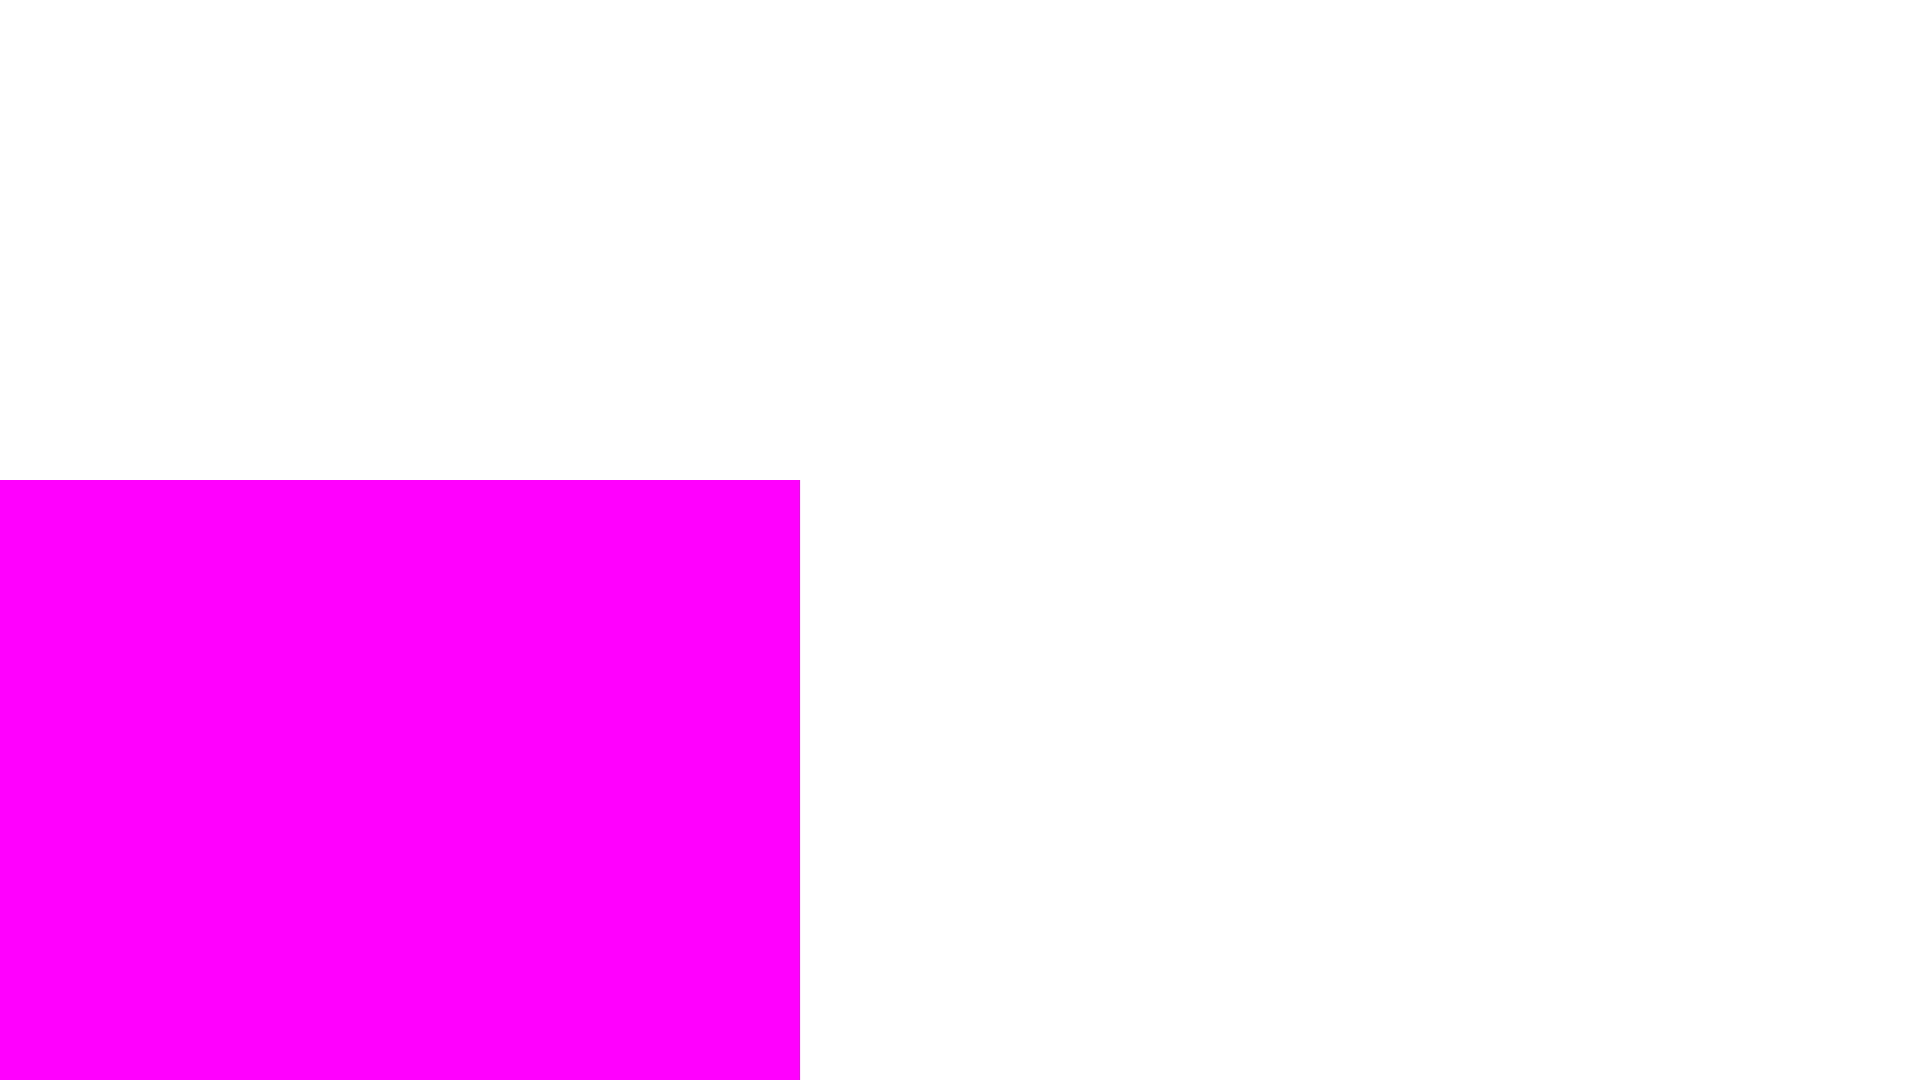
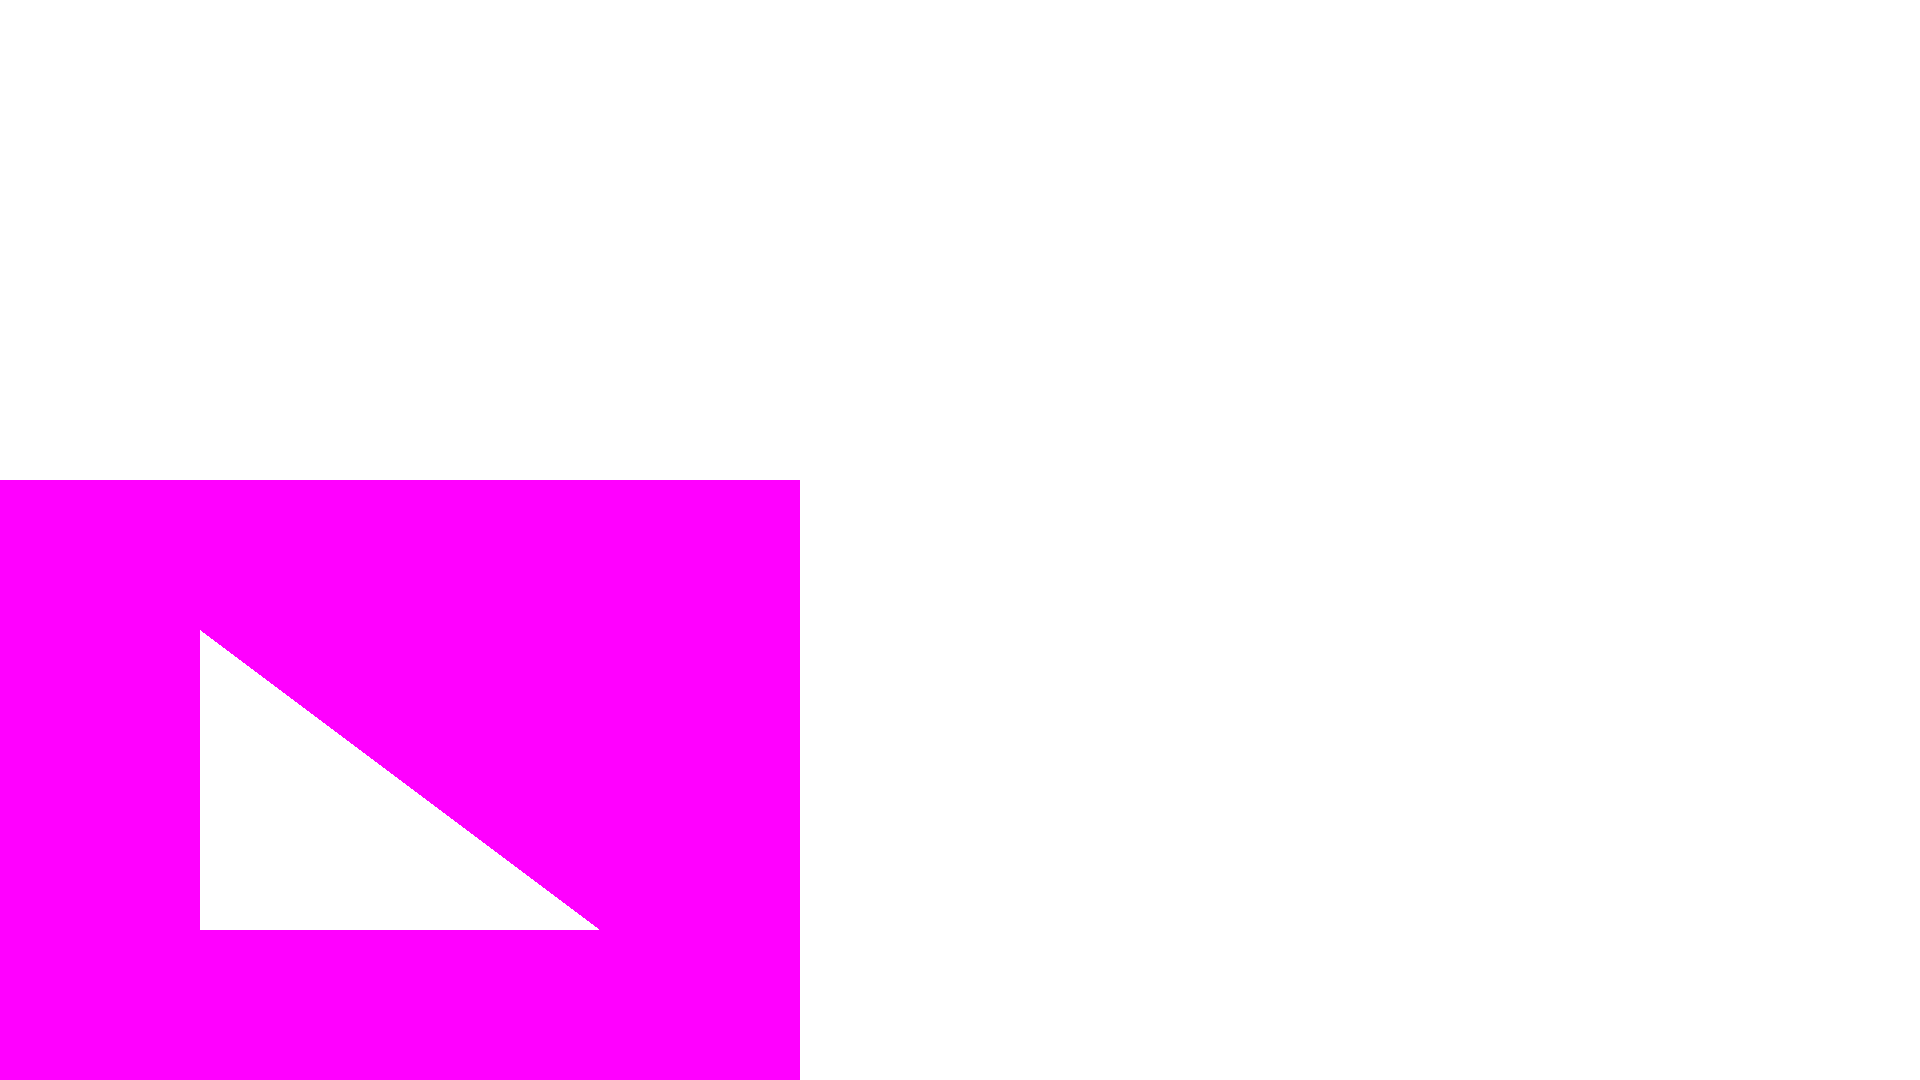
Monstrando triangulo 01-hello_cube.py

Changed region(s): [[0.0938, 0.5806, 0.3125, 0.8861]]

diff --git a/src/urenderer/geometry/mesh/mesh.py b/src/urenderer/geometry/mesh/mesh.py
@@ -88,29 +88,13 @@ class Mesh:
 
         print("update EBO")
         GL.glBindVertexArray(self._vao)
-
-        GL.glBindBuffer(GL.GL_ARRAY_BUFFER, self._vbo)
-        GL.glBufferData(GL.GL_ARRAY_BUFFER, self._vertex.nbytes,
-                        self._vertex, GL.GL_STATIC_DRAW)
+        
 
         GL.glBindBuffer(GL.GL_ELEMENT_ARRAY_BUFFER, self._ebo)
         GL.glBufferData(GL.GL_ELEMENT_ARRAY_BUFFER,
                         self._index.nbytes, self._index, GL.GL_STATIC_DRAW)
 
-        float_size = np.dtype(np.float32).itemsize
-
-        GL.glVertexAttribPointer(0, 3,
-                                GL.GL_FLOAT, GL.GL_FALSE,
-                                5*float_size,
-                                c_void_p(0))
-        GL.glEnableVertexAttribArray(0)
-
-        GL.glVertexAttribPointer(1, 2,
-                                GL.GL_FLOAT, GL.GL_FALSE,
-                                5*float_size,
-                                c_void_p(3*float_size))
-        GL.glEnableVertexAttribArray(1)
-
+        
         GL.glBindVertexArray(0)
         #########################################################################
 
@@ -137,6 +121,8 @@ class Mesh:
 
         ## SEU CÓDIGO AQUI ######################################################
         # Bind the VAO and VBO
+        GL.glBindVertexArray(self._vao)
+        GL.glBindBuffer(GL.GL_ARRAY_BUFFER, self._vbo)
 
         #########################################################################
 
@@ -164,7 +150,21 @@ class Mesh:
 
         ## SEU CÓDIGO AQUI ######################################################
         # Envia os dados para o buffer
+        GL.glBufferData(GL.GL_ARRAY_BUFFER, self._vertex.nbytes,
+                        self._vertex, GL.GL_STATIC_DRAW)
+        float_size = np.dtype(np.float32).itemsize
 
+        GL.glVertexAttribPointer(0, 3,
+                                GL.GL_FLOAT, GL.GL_FALSE,
+                                5*float_size,
+                                c_void_p(0))
+        GL.glEnableVertexAttribArray(0)
+
+        GL.glVertexAttribPointer(1, 2,
+                                GL.GL_FLOAT, GL.GL_FALSE,
+                                5*float_size,
+                                c_void_p(3*float_size))
+        GL.glEnableVertexAttribArray(1)
         # Configura os atributos do buffer
 
         if self._color is not None:
@@ -184,7 +184,8 @@ class Mesh:
         '''
         ## SEU CÓDIGO AQUI ######################################################
         # Realiza o bind do VAO ao contexto e desenha a geometria contida nele
-        GL.glBindVertexArray(vao)
+        GL.glBindVertexArray(self._vao)
+        GL.glDrawElements(GL.GL_TRIANGLES, 6, GL.GL_UNSIGNED_INT, None)
         #########################################################################
 
     @property
